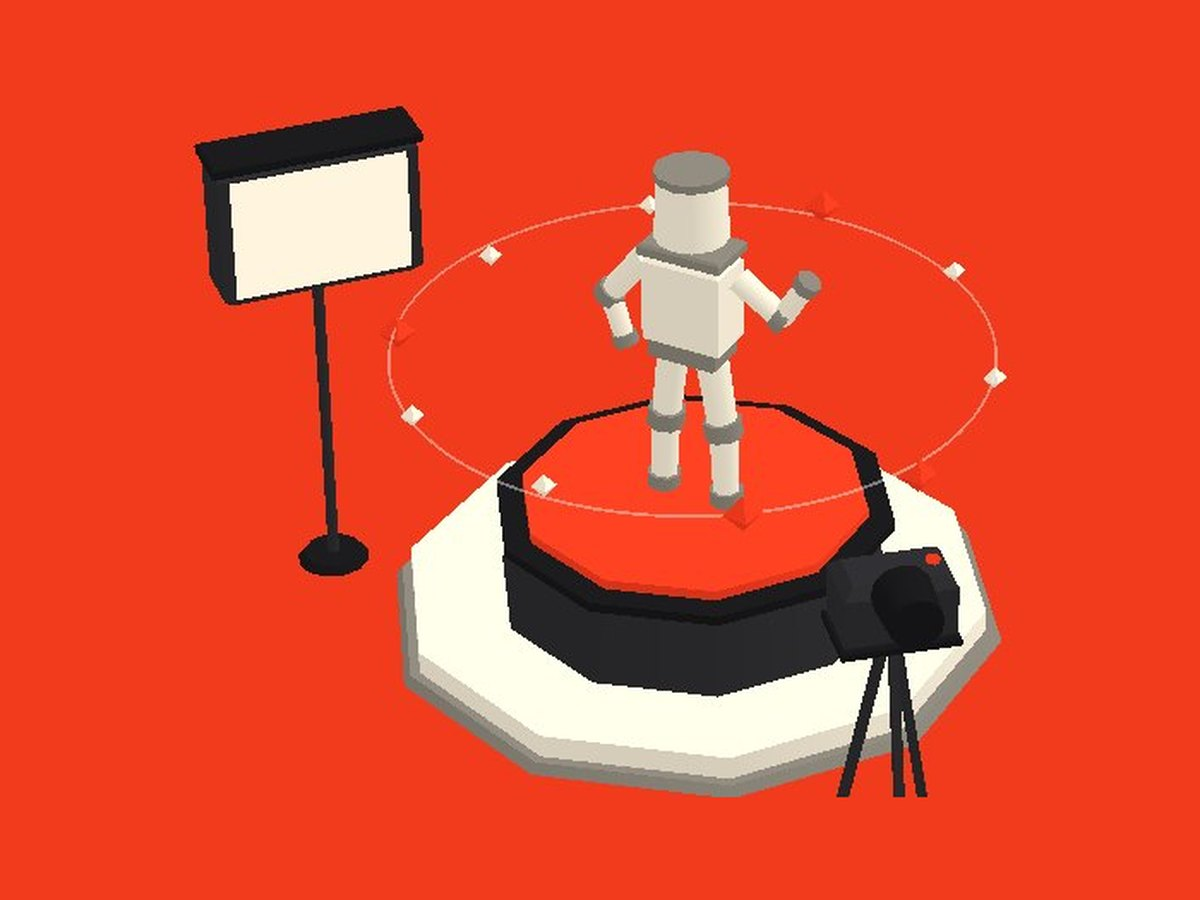
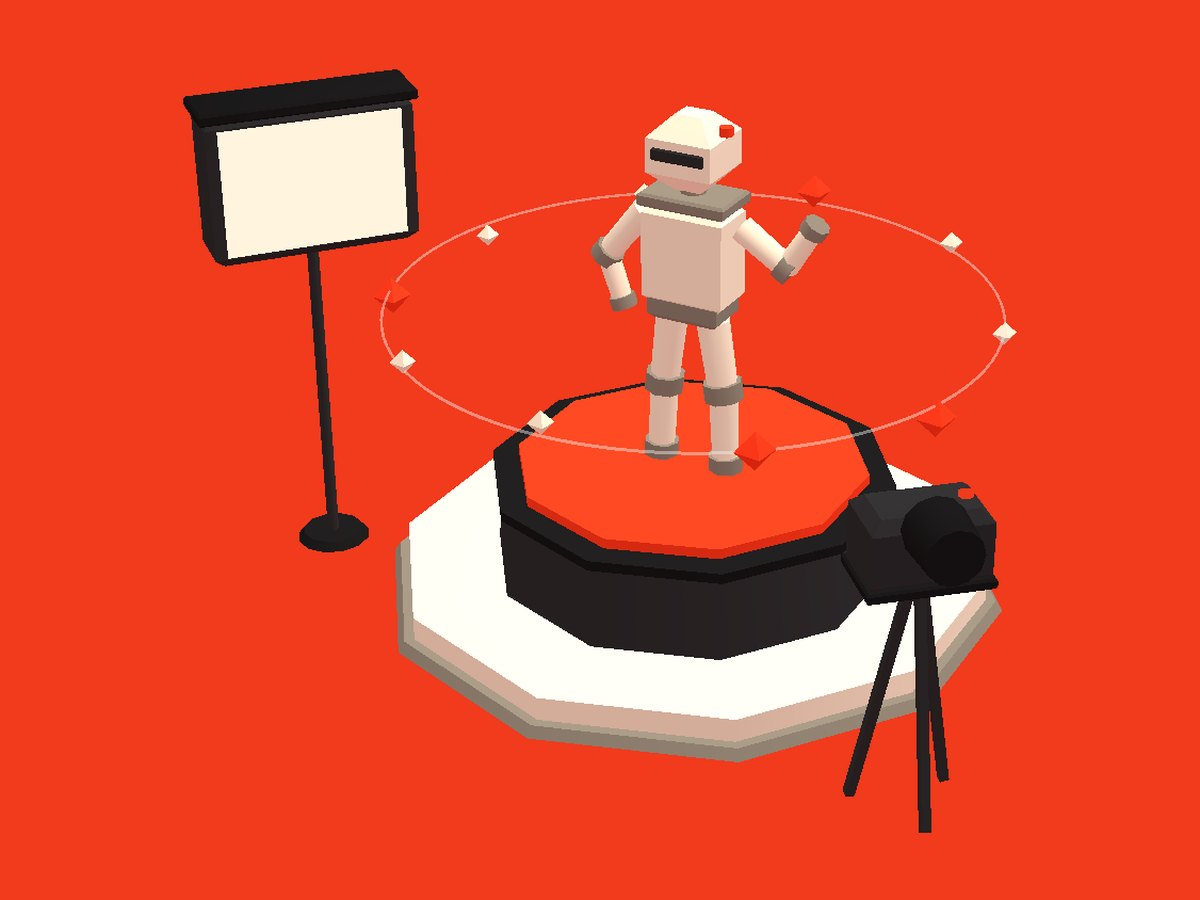
Simpler rounded gates, furnished rooms, gallery lighting
- Gates are now one rounded arch per doorway with an accent line and a
  numbered badge, coloured by the room it opens on; no swinging leaves
- Every room is dressed along its side walls: plants in the far corners,
  skirting, shelves of books, framed posters, lamps; engineer rooms get a
  code console, a neon sign, a cable tray and a lit green strip
- Dressing is merged per material so each room adds only a few draw calls
- A gallery spot follows the room you are in and casts soft shadows; the
  hemisphere light takes each half's colour (red bounce, green tint)
- Soft contact shadow under every piece; mannequin gets a visor head

Claude-Session: https://claude.ai/code/session_01DM9MDgNKx7H6ECd662b5ve

Changed region(s): [[0.1542, 0.0622, 0.8633, 0.9333]]

diff --git a/app.js b/app.js
@@ -787,7 +787,7 @@ function buildBlender(i){
     m.quaternion.setFromUnitVectors(V3(0, 1, 0), Bv.clone().sub(A).normalize()); m.castShadow = true; fig.add(m);
     const j = new THREE.Mesh(new THREE.CylinderGeometry(r * 1.3, r * 1.3, r * 1.2, 8), T); j.position.copy(Bv); j.quaternion.copy(m.quaternion); fig.add(j); };
   K(fig, .5, .62, .3, W, 0, 1.0, 0); K(fig, .54, .08, .34, T, 0, 1.6, 0); K(fig, .44, .16, .28, T, 0, .92, 0);
-  O8(fig, .2, .22, .4, W, 0, 1.72, 0); O8(fig, .22, .22, .05, T, 0, 2.1, 0); O8(fig, .07, .08, .1, T, 0, 1.64, 0);
+  K(fig, .4, .44, .38, W, 0, 1.7, 0, { r: .12 }); K(fig, .32, .11, .06, fm('ink'), 0, 1.88, .17, { r: .03 }); O8(fig, .04, .04, .05, fm('red'), .2, 2.04, 0); O8(fig, .07, .08, .1, T, 0, 1.64, 0);
   limb(-.3, 1.52, -.55, 1.2, .07); limb(-.55, 1.2, -.45, .92, .06); limb(.3, 1.52, .58, 1.34, .07); limb(.58, 1.34, .74, 1.6, .06);
   limb(-.13, .92, -.18, .48, .09); limb(-.18, .48, -.2, .04, .08); limb(.13, .92, .2, .5, .09); limb(.2, .5, .22, .04, .08);
   /* a softbox and a camera on a tripod, both on the same base */
@@ -1105,63 +1105,194 @@ function buildContact(i){
   return g;
 }
 
-/* ══ gates: a built doorway into every room, named for the room it opens on,
-   with two leaves that swing open as you walk up to them ══ */
-const GATES = [];
-function gateSign(i){
-  const st = STATIONS[i], side = ROOMS[i].side, W = 1100, H = 280, [c, g] = makeCanvas(W, H);
-  const num = String(i + 1).padStart(2, '0'), word = WALLWORD[i];
-  if (side === 'eng'){
-    g.fillStyle = '#070B08'; g.fillRect(0, 0, W, H);
-    g.strokeStyle = 'rgba(59,240,122,.45)'; g.lineWidth = 6; g.strokeRect(10, 10, W - 20, H - 20);
-    g.fillStyle = '#3BF07A'; g.font = '800 104px "JetBrains Mono", ui-monospace, monospace'; g.textBaseline = 'middle';
-    g.shadowColor = 'rgba(59,240,122,.6)'; g.shadowBlur = 18;
-    g.fillText('> cd ./' + word.toLowerCase().replace(/\s+/g, '_').slice(0, 9) + '_', 44, H / 2 + 4);
-    g.shadowBlur = 0; g.font = '700 30px "JetBrains Mono", ui-monospace, monospace'; g.fillStyle = 'rgba(59,240,122,.7)'; g.textAlign = 'right'; g.fillText('[' + num + '/09]', W - 40, 46);
-  } else {
-    const bg = side === 'cre' ? HEX.red : HEX.paper, ink = side === 'cre' ? HEX.black : HEX.red;
-    g.fillStyle = bg; g.fillRect(0, 0, W, H);
-    g.fillStyle = ink; g.textBaseline = 'alphabetic';
-    const t = num + ' ' + word.toUpperCase() + ' →'; fitText(g, t, W - 80, 220); g.fillText(t, 40, H / 2 + 72);
-  }
+/* ══ gates: one rounded portal per doorway, in the colour of the room it opens on,
+   with a thin accent line inside and the room's number on a round badge ══ */
+/* an arch as one outline: up the outside, over, down, then back up the inside */
+function portalGeo(ow, oh, or, iw, ih, ir, depth){
+  const s = new THREE.Shape();
+  s.moveTo(-ow / 2, 0); s.lineTo(-ow / 2, oh - or); s.quadraticCurveTo(-ow / 2, oh, -ow / 2 + or, oh);
+  s.lineTo(ow / 2 - or, oh); s.quadraticCurveTo(ow / 2, oh, ow / 2, oh - or); s.lineTo(ow / 2, 0);
+  s.lineTo(iw / 2, 0); s.lineTo(iw / 2, ih - ir); s.quadraticCurveTo(iw / 2, ih, iw / 2 - ir, ih);
+  s.lineTo(-iw / 2 + ir, ih); s.quadraticCurveTo(-iw / 2, ih, -iw / 2, ih - ir); s.lineTo(-iw / 2, 0); s.lineTo(-ow / 2, 0);
+  const g = new THREE.ExtrudeGeometry(s, { depth, bevelEnabled: true, bevelThickness: .04, bevelSize: .03, bevelSegments: LOW ? 1 : 3, curveSegments: LOW ? 6 : 14 });
+  g.translate(0, 0, -depth / 2); g.computeVertexNormals(); return g;
+}
+function badgeTex(num, bg, fg){
+  const [c, g] = makeCanvas(256, 256);
+  g.fillStyle = bg; g.beginPath(); g.arc(128, 128, 126, 0, Math.PI * 2); g.fill();
+  g.fillStyle = fg; g.textAlign = 'center'; g.textBaseline = 'alphabetic'; posterFont(g, 150); g.fillText(num, 128, 182);
   return texFrom(c);
 }
 function buildGates(){
+  const T = .34, D = WT + .36;
+  const frameG = portalGeo(DW + 2 * T, DH + T, 1.1, DW, DH, .78, D);
+  const lineG = portalGeo(DW + .04, DH + .02, .8, DW - .12, DH - .06, .72, D + .12);
+  const STY = { eng: ['ink', FAM.green, '#3BF07A', '#0B110D'], cre: ['cream', C.black, HEX.black, HEX.paper], both: ['red', C.black, HEX.black, HEX.paper] };
   DOORS.forEach((d, i) => {
-    const rm = ROOMS[i], side = rm.side, a = rm.nin.clone().negate();
-    const fam = side === 'eng' ? 'ink' : side === 'cre' ? 'red' : 'cream', trim = side === 'eng' ? 'green' : side === 'cre' ? 'ink' : 'red';
+    const rm = ROOMS[i], st = STY[rm.side], a = rm.nin.clone().negate();
     const g = new THREE.Group(); g.position.set(d.x, 0, d.z); g.rotation.y = Math.atan2(a.x, a.z); world.add(g);
-    [-1, 1].forEach(sx => {
-      const x = sx * (DW / 2 + .23);
-      K(g, .46, DH + .06, .72, fm(fam), x, 0, 0);
-      K(g, .6, .18, .86, fm(fam, 't'), x, 0, 0);
-      K(g, .6, .16, .86, fm(fam, 't'), x, DH - .1, 0);
-      K(g, .48, .07, .74, fm(trim), x, 1.15, 0);
-      K(g, .48, .07, .74, fm(trim), x, 2.9, 0);
-    });
-    K(g, DW + .92, .36, .74, fm(fam), 0, DH + .02, 0);
-    K(g, DW + 1.2, .14, .9, fm(fam, 't'), 0, DH + .38, 0);
-    K(g, DW - .1, .03, .74, fm(trim, 't'), 0, 0, 0, { r: .01 });
-    plane(g, 2.6, .66, decal(gateSign(i)), 0, DH + .95, .4);
-    K(g, 2.72, .78, .06, fm(fam, 't'), 0, DH + .56, .36);
-    [-1, 1].forEach(s => {
-      const hinge = new THREE.Group(); hinge.position.set(s * DW / 2, 0, -.05); g.add(hinge);
-      K(hinge, DW / 2 - .05, DH - .12, .08, fm(fam, 'f'), -s * DW / 4, .04, 0);
-      K(hinge, DW / 2 - .35, .05, .1, fm(fam, 't'), -s * DW / 4, 1.4, 0);
-      K(hinge, DW / 2 - .35, .05, .1, fm(fam, 't'), -s * DW / 4, 3.1, 0);
-      O8(hinge, .05, .05, .12, fm(trim), -s * (DW / 2 - .25), 2.0, .07).rotation.x = Math.PI / 2;
-      GATES.push({ hinge, s, x: d.x, z: d.z, open: 0 });
+    mesh(g, frameG, fm(st[0]), 0, 0, 0);
+    mesh(g, lineG, flat(st[1]), 0, 0, 0, { noShadow: true });
+    const tex = badgeTex(String(i + 1).padStart(2, '0'), st[2], st[3]);
+    [1, -1].forEach(s => {
+      const disc = O8(g, .36, .36, .06, fm(st[0], 't'), 0, 0, 0, { seg: 24 });
+      disc.rotation.x = Math.PI / 2; disc.position.set(0, DH + T + .62, s * (D / 2 + .05));
+      const face = new THREE.Mesh(new THREE.CircleGeometry(.33, 32), decal(tex, { transparent: true }));
+      face.position.set(0, DH + T + .62, s * (D / 2 + .085)); if (s < 0) face.rotation.y = Math.PI; g.add(face);
     });
   });
-  anim.push((t, dt) => {
-    const k = 1 - Math.exp(-dt * 6);
-    GATES.forEach(gt => {
-      const dist = Math.hypot(camera.position.x - gt.x, camera.position.z - gt.z);
-      const want = REDUCED ? 1 : 1 - smooth(4.5, 10, dist);
-      gt.open += (want - gt.open) * k;
-      gt.hinge.rotation.y = -gt.s * gt.open * 1.5;
+}
+
+/* ══ dressing: each room furnished along its side walls, never in front of its piece ══ */
+function seeded(n){ let x = n * 9301 + 49297; return () => { x = (x * 9301 + 49297) % 233280; return x / 233280; }; }
+function codeTex(seed){
+  const [c, g] = makeCanvas(512, 320), r = seeded(seed);
+  g.fillStyle = '#070B08'; g.fillRect(0, 0, 512, 320);
+  for (let k = 0; k < 15; k++){
+    const y = 18 + k * 19.5; g.fillStyle = 'rgba(59,240,122,.28)'; g.fillRect(14, y, 14, 9);
+    let x = 40 + Math.floor(r() * 4) * 16;
+    for (let w = 0; w < 1 + r() * 4 && x < 480; w++){
+      const len = 20 + r() * 90; const v = r();
+      g.fillStyle = v > .8 ? '#F23A1D' : v > .45 ? '#3BF07A' : v > .2 ? '#C9F5D6' : 'rgba(59,240,122,.45)';
+      g.fillRect(x, y, Math.min(len, 490 - x), 9); x += len + 10;
+    }
+  }
+  g.fillStyle = '#3BF07A'; g.fillRect(40, 18 + 15 * 19.5, 10, 12);
+  return texFrom(c);
+}
+function plant(par, x, z, kind, pot, s){
+  const p = new THREE.Group(); p.position.set(x, 0, z); p.scale.setScalar(s || 1); par.add(p);
+  O8(p, .3, .22, .5, fm(pot), 0, 0, 0); O8(p, .33, .33, .07, fm(pot, 't'), 0, .48, 0); O8(p, .27, .27, .02, fm('wood', 't'), 0, .5, 0);
+  if (kind === 0){
+    [[0, .9, 0, 0], [.1, 1.2, .25, 1], [-.1, 1.05, -.22, 2], [.05, .8, -.4, 3], [-.06, 1.3, .1, 4], [.13, .95, .5, 5]].forEach(b => {
+      K(p, .12, b[1], .05, fm(b[3] % 3 === 1 ? 'grass' : 'leaf', b[3] % 2 ? 'f' : 'm'), b[0], .5, b[0] * .5, { rz: b[2] * .5, ry: b[3] * .9, r: .02 });
     });
+  } else if (kind === 1){
+    [[0, 1.02, 0, .42, 'm'], [.22, .86, .12, .3, 'f'], [-.2, .9, -.1, .32, 't'], [0, 1.36, 0, .26, 'f']].forEach(q => {
+      const m = mesh(p, new THREE.IcosahedronGeometry(q[3], 0), fm('leaf', q[4]), q[0], q[1], q[2]); m.rotation.set(q[0] * 3, q[1], q[2]);
+    });
+  } else {
+    O8(p, .05, .07, 1.0, fm('wood', 't'), 0, .5, 0);
+    [[1.55, .5, .7, 'm'], [1.95, .4, .56, 'f'], [2.3, .28, .4, 'm']].forEach(c => { const m = new THREE.Mesh(new THREE.ConeGeometry(c[1], c[2], 8), fm('leaf', c[3])); m.position.y = c[0]; m.castShadow = true; p.add(m); });
+  }
+  return p;
+}
+function shelf(par, x, z, ry, side, seed){
+  const g = new THREE.Group(); g.position.set(x, 0, z); g.rotation.y = ry; par.add(g);
+  const fr = side === 'eng' ? 'ink' : side === 'cre' ? 'cream' : 'ink', r = seeded(seed);
+  const PAL = side === 'eng' ? [['ink', 'f'], ['green', 't'], ['steel', 'm'], ['ink', 't'], ['green', 'm']]
+    : side === 'cre' ? [['ink', 'm'], ['wood', 'm'], ['sand', 'm'], ['steel', 'm'], ['cream', 't']] : [['red', 'm'], ['ink', 'm'], ['cream', 't'], ['steel', 'm'], ['sand', 'm']];
+  K(g, 1.9, 2.5, .05, fm(fr, 't'), 0, 0, .02);
+  [-.93, .93].forEach(sx => K(g, .08, 2.6, .46, fm(fr), sx, 0, .23));
+  [0, .62, 1.24, 1.86, 2.5].forEach(y => K(g, 1.94, .07, .48, fm(fr), 0, y, .24));
+  [.07, .69, 1.31, 1.93].forEach((y, row) => {
+    let bx = -.84;
+    while (bx < .8){
+      if (r() < .12 && bx < .5){ O8(g, .1, .08, .26, fm(side === 'eng' ? 'green' : 'red', 't'), bx + .12, y, .24); bx += .3; continue; }
+      const w = .06 + r() * .07, h = .3 + r() * .2, c = PAL[Math.floor(r() * PAL.length)];
+      K(g, w, h, .3 + r() * .06, fm(c[0], c[1]), bx + w / 2, y, .24, { r: .01, rz: r() < .08 ? .2 : 0 }); bx += w + .012;
+      if (r() < .06) bx += .2;
+    }
   });
+  return g;
+}
+function framed(par, x, y, z, ry, tex, w, h, fam){
+  const g = new THREE.Group(); g.position.set(x, y, z); g.rotation.y = ry; par.add(g);
+  K(g, w + .14, h + .14, .07, fm(fam), 0, -(h + .14) / 2, .035, { r: .025 });
+  plane(g, w, h, decal(tex), 0, 0, .075);
+  return g;
+}
+function floorLamp(par, x, z, shade){
+  const l = new THREE.Group(); l.position.set(x, 0, z); par.add(l);
+  O8(l, .26, .3, .06, fm('ink', 't'), 0, 0, 0); O8(l, .03, .03, 1.75, fm('ink'), 0, .06, 0);
+  O8(l, .2, .34, .4, fm(shade), 0, 1.72, 0);
+  const glow = new THREE.Mesh(new THREE.CircleGeometry(.3, 16), flat(FAM.lamp)); glow.rotation.x = Math.PI / 2; glow.position.y = 1.73; l.add(glow);
+}
+function deskConsole(par, x, z, ry, seed){
+  const g = new THREE.Group(); g.position.set(x, 0, z); g.rotation.y = ry; par.add(g);
+  K(g, 2.2, .76, .7, fm('ink'), 0, 0, .35); K(g, 2.26, .06, .76, fm('ink', 't'), 0, .76, .35);
+  K(g, 2.2, .03, .02, flat(FAM.green), 0, .5, .71, { noShadow: true });
+  [-.52, .52].forEach((mx, k) => {
+    O8(g, .14, .16, .03, fm('ink', 't'), mx, .82, .25); K(g, .06, .3, .06, fm('ink'), mx, .82, .2);
+    K(g, .98, .62, .08, fm('ink', 't'), mx, 1.02, .2, { ry: k ? -.12 : .12 });
+    plane(g, .9, .54, decal(codeTex(seed + k)), mx, 1.33, .245, k ? -.12 : .12);
+  });
+  K(g, .7, .03, .22, fm('steel'), 0, .82, .52);
+  K(g, .34, .6, .6, fm('ink', 'f'), 1.4, 0, .35); [0, 1, 2].forEach(k => K(g, .2, .03, .02, flat(k ? 0xC9F5D6 : FAM.green), 1.4, .38 + k * .07, .66, { noShadow: true }));
+  return g;
+}
+function neonSign(par, x, y, z, ry, text, col, w){
+  const [c, g] = makeCanvas(512, 256);
+  g.textAlign = 'center'; g.textBaseline = 'middle'; g.font = '800 150px "JetBrains Mono", ui-monospace, monospace';
+  g.shadowColor = col; g.shadowBlur = 26; g.fillStyle = col; g.fillText(text, 256, 132); g.shadowBlur = 0; g.fillStyle = '#ffffff'; g.globalAlpha = .55; g.fillText(text, 256, 132);
+  const m = plane(par, w, w / 2, decal(texFrom(c), { transparent: true, blending: THREE.AdditiveBlending, depthWrite: false }), x, y, z, ry);
+  return m;
+}
+/* static dressing is merged per material, so a furnished room costs a handful of draw calls */
+const _inv = new THREE.Matrix4(), _rel = new THREE.Matrix4();
+function mergeStatic(D){
+  D.updateMatrixWorld(true); _inv.copy(D.matrixWorld).invert();
+  const groups = new Map(), drop = [];
+  D.traverse(o => {
+    if (!o.isMesh || o.material.map || o.material.transparent) return;
+    _rel.multiplyMatrices(_inv, o.matrixWorld);
+    let g = o.geometry.clone().applyMatrix4(_rel); if (g.index) g = g.toNonIndexed();
+    const k = o.material.uuid; if (!groups.has(k)) groups.set(k, { m: o.material, pos: [], nor: [] });
+    const e = groups.get(k); e.pos.push(g.attributes.position.array); e.nor.push(g.attributes.normal.array); drop.push(o);
+  });
+  drop.forEach(o => o.parent.remove(o));
+  const cat = list => { const n = list.reduce((a, b) => a + b.length, 0), out = new Float32Array(n); let off = 0; list.forEach(a => { out.set(a, off); off += a.length; }); return out; };
+  groups.forEach(e => {
+    const g = new THREE.BufferGeometry();
+    g.setAttribute('position', new THREE.BufferAttribute(cat(e.pos), 3)); g.setAttribute('normal', new THREE.BufferAttribute(cat(e.nor), 3));
+    const m = new THREE.Mesh(g, e.m); m.castShadow = m.receiveShadow = true; D.add(m);
+  });
+}
+const SKIRT = { eng: ['ink', 't'], cre: ['ink', 'm'], both: ['red', 'm'] };
+function dressRoom(i){
+  const rm = ROOMS[i], side = rm.side, hw = rm.w / 2 - WT / 2, dep = CELL - WT;
+  const D = new THREE.Group(); D.position.copy(rm.f).addScaledVector(rm.n, WT / 2); D.rotation.y = rm.ry; world.add(D);
+  D.updateMatrixWorld(true);
+  const dx = D.worldToLocal(V3(rm.door.x, 0, rm.door.z)).x;
+  /* a skirting band all round, and a lit strip above it on the engineer side */
+  const sk = fm(SKIRT[side][0], SKIRT[side][1]);
+  K(D, 2 * hw, .2, .06, sk, 0, 0, .03, { r: .01 });
+  [-1, 1].forEach(s => K(D, .06, .2, dep, sk, s * (hw - .03), 0, dep / 2, { r: .01 }));
+  [[-hw, dx - DW / 2 - .4], [dx + DW / 2 + .4, hw]].forEach(sp => { if (sp[1] - sp[0] > .1) K(D, sp[1] - sp[0], .2, .06, sk, (sp[0] + sp[1]) / 2, 0, dep - .03, { r: .01 }); });
+  if (side === 'eng'){
+    const led = flat(FAM.green, { transparent: true, opacity: .85 });
+    plane(D, 2 * hw, .03, led, 0, .24, .062);
+    [-1, 1].forEach(s => plane(D, dep, .03, led, s * (hw - .062), .24, dep / 2, -s * Math.PI / 2));
+  }
+  const L = -hw, Rt = hw, pl = side === 'eng' ? 'ink' : side === 'cre' ? 'cream' : 'ink';
+  /* the two far corners always hold something green */
+  plant(D, L + .6, .6, i % 3, pl, 1.05);
+  plant(D, Rt - .6, .6, (i + 1) % 3, pl, .92);
+  if (side === 'eng'){
+    deskConsole(D, L + .02, 3.6, Math.PI / 2, i * 7);
+    framed(D, Rt - .02, 3.9, 3.6, -Math.PI / 2, codeTex(i * 7 + 3), 2.4, 1.5, 'ink');
+    neonSign(D, Rt - .04, 2.25, 3.6, -Math.PI / 2, ['</>', '{ }', '01'][i % 3] || '</>', '#3BF07A', 1.5);
+    plant(D, Rt - .6, 5.6, 1, 'ink', .8);
+    /* cable tray under the ceiling */
+    K(D, .34, .1, dep - 1, fm('ink', 't'), L + .5, RH - .9, dep / 2);
+  } else if (side === 'cre'){
+    shelf(D, L + .02, 3.4, Math.PI / 2, side, i * 11);
+    const keys = { 1: ['rig', 'reel'], 2: ['house', 'build'], 5: ['tools', 'cv'] }[i] || ['wall', 'hex'];
+    keys.forEach((k, n) => framed(D, Rt - .02, 3.55 + n * .1, 2.6 + n * 1.9, -Math.PI / 2, texFrom(posterCanvas(k, 260)), 1.15, 1.15 * PHI, 'ink'));
+    floorLamp(D, Rt - .6, 5.0, 'cream');
+  } else {
+    if (i === 8){
+      framed(D, L + .02, 4.2, 3.4, Math.PI / 2, texFrom(posterCanvas('build', 260)), 1.3, 1.3 * PHI, 'ink');
+      framed(D, Rt - .02, 4.2, 3.4, -Math.PI / 2, texFrom(posterCanvas('channel', 260)), 1.3, 1.3 * PHI, 'ink');
+      plant(D, L + 5.6, .6, 2, 'ink', 1.0); plant(D, Rt - 5.6, .6, 0, 'ink', 1.0);
+    } else {
+      shelf(D, L + .02, 3.4, Math.PI / 2, side, i * 13);
+      framed(D, Rt - .02, 3.8, 3.4, -Math.PI / 2, texFrom(posterCanvas(i === 7 ? 'arcade' : 'numbers', 260)), 1.3, 1.3 * PHI, 'ink');
+      floorLamp(D, Rt - .6, 5.2, 'red');
+    }
+  }
+  mergeStatic(D);
+  return D;
 }
 
 /* ══ atmosphere: a gallery beam over every piece, and the air of each half ══ */
@@ -1181,6 +1312,7 @@ const AIR = [], BEAMS = [];
 function buildAtmosphere(){
   const beamTex = gradTex([[0, 'rgba(255,255,255,0)'], [.55, 'rgba(255,255,255,.35)'], [1, 'rgba(255,255,255,.9)']], 4, 256);
   const poolTex = gradTex([[0, 'rgba(255,255,255,.9)'], [.45, 'rgba(255,255,255,.35)'], [1, 'rgba(255,255,255,0)']], 256, 256, true);
+  const aoTex = gradTex([[0, 'rgba(0,0,0,.55)'], [.55, 'rgba(0,0,0,.22)'], [1, 'rgba(0,0,0,0)']], 256, 256, true);
   const TINT = { eng: 0x9DFFC0, cre: 0xFFE2C2, both: 0xFFFFFF };
   PIECE.forEach((g, i) => {
     const p = new THREE.Vector3(); g.getWorldPosition(p); const tint = lin(TINT[ROOMS[i].side]);
@@ -1189,6 +1321,10 @@ function buildAtmosphere(){
     beam.position.set(p.x, h / 2, p.z); world.add(beam); BEAMS.push(beam);
     const pool = new THREE.Mesh(new THREE.PlaneGeometry(5.2, 5.2), new THREE.MeshBasicMaterial({ map: poolTex, color: tint, transparent: true, opacity: .38, depthWrite: false, blending: THREE.AdditiveBlending, polygonOffset: true, polygonOffsetFactor: -2, polygonOffsetUnits: -2 }));
     pool.rotation.x = -Math.PI / 2; pool.position.set(p.x, .012, p.z); world.add(pool);
+    /* a soft contact shadow, so every piece sits down on the floor */
+    const bb = new THREE.Box3().setFromObject(g), sz = new THREE.Vector3(); bb.getSize(sz);
+    const ao = new THREE.Mesh(new THREE.PlaneGeometry(1, 1), new THREE.MeshBasicMaterial({ map: aoTex, transparent: true, opacity: ROOMS[i].side === 'eng' ? .7 : .38, depthWrite: false, polygonOffset: true, polygonOffsetFactor: -3, polygonOffsetUnits: -3 }));
+    ao.rotation.x = -Math.PI / 2; ao.scale.set(Math.min(sz.x, 9) * 1.25, Math.min(sz.z, 6) * 1.35, 1); ao.position.set((bb.min.x + bb.max.x) / 2, .014, (bb.min.z + bb.max.z) / 2); world.add(ao);
     const lamp = new THREE.Mesh(new THREE.CylinderGeometry(.16, .26, .22, 12), fm('ink').clone()); lamp.position.set(p.x, RH - .11, p.z); world.add(lamp);
     const lens = new THREE.Mesh(new THREE.CircleGeometry(.2, 16), flat(0xFFFFFF)); lens.rotation.x = Math.PI / 2; lens.position.set(p.x, RH - .23, p.z); world.add(lens);
     ceilMats.push(lamp.material);
@@ -1231,9 +1367,12 @@ function buildHits(){
   });
 }
 
+let hemi = null, spot = null;
+const HEMI = { eng: [0xD6FFE4, 0x0B110D, .42], cre: [0xFFEDE4, 0xF23A1D, .46], both: [0xFFFFFF, 0xCFCBC4, .44], hall: [0xFFFFFF, 0xCFCBC4, .44] };
+const SPOT_TINT = { eng: 0xCFFFE0, cre: 0xFFE9D2, both: 0xFFF4E6, hall: 0xFFF4E6 };
 function buildLights(){
-  scene.add(new THREE.HemisphereLight(0xffffff, 0xCFCBC4, .5));
-  keyLight = new THREE.DirectionalLight(0xFFFFFF, .55);
+  hemi = new THREE.HemisphereLight(0xffffff, 0xCFCBC4, .44); scene.add(hemi);
+  keyLight = new THREE.DirectionalLight(0xFFF8EE, .42);
   keyLight.position.set(5, 14, 7); scene.add(keyLight.target);
   if (!LOW){
     /* the shadow box follows the camera, so it stays sharp and never shimmers */
@@ -1242,6 +1381,23 @@ function buildLights(){
     keyLight.shadow.bias = -.0004; keyLight.shadow.normalBias = .04; keyLight.shadow.radius = 3;
   }
   scene.add(keyLight);
+  /* a gallery spot over the room you are in: it pools light on the piece and lets the corners fall away */
+  spot = new THREE.SpotLight(0xFFF4E6, LOW ? .7 : .85, 0, .62, .75, 1);
+  spot.position.set(0, RH - .2, -HALL_D / 2); spot.target.position.set(0, 0, -HALL_D / 2); scene.add(spot.target);
+  if (!LOW){ spot.castShadow = true; spot.shadow.mapSize.set(1024, 1024); spot.shadow.bias = -.0006; spot.shadow.normalBias = .03; spot.shadow.radius = 4; spot.shadow.camera.near = 1; spot.shadow.camera.far = RH + 2; }
+  scene.add(spot);
+}
+const _sp = new THREE.Vector3(), _hc = new THREE.Color(), _gc = new THREE.Color();
+function steerLights(here, dt){
+  if (!spot) return;
+  const side = here >= 0 ? ROOMS[here].side : 'hall';
+  if (here >= 0) PIECE[here].getWorldPosition(_sp); else _sp.set(0, 0, -HALL_D / 2);
+  const k = 1 - Math.exp(-(dt || .016) * 3.2);
+  spot.target.position.lerp(_sp, k); spot.position.set(spot.target.position.x, RH - .25, spot.target.position.z + .6);
+  spot.color.lerp(_hc.set(SPOT_TINT[side]).convertSRGBToLinear(), k);
+  const H = HEMI[side];
+  hemi.color.lerp(_hc.set(H[0]).convertSRGBToLinear(), k); hemi.groundColor.lerp(_gc.set(H[1]).convertSRGBToLinear(), k);
+  hemi.intensity += (H[2] - hemi.intensity) * k;
 }
 
 /* ══ the lanes in 3D ════════════════════════════════════════ */
@@ -1729,6 +1885,7 @@ function frame(now){
   pNow = REDUCED ? pTarget : pNow + (pTarget - pNow) * (1 - Math.exp(-dt * 10));
   if (Math.abs(pTarget - pNow) < .01) pNow = pTarget;
   direct(pNow, clockT);
+  steerLights(hereOf(pNow), dt);
   anim.forEach(f => f(clockT, dt));
   moveCursor(dt);
   if (pop && PIECE[pop.i]){
@@ -1756,7 +1913,7 @@ history.scrollRestoration = 'manual';
 loadAll().then(() => {
   buildLights(); buildShell();
   [buildArthis, buildBlender, buildAkverse, buildHexa, buildAI, buildBoard, buildNumbers, buildArcade, buildContact].forEach((f, i) => { PIECE[i] = f(i); });
-  buildHits(); buildGates(); buildAtmosphere(); buildTrack();
+  buildHits(); buildGates(); ROOMS.forEach((r, i) => dressRoom(i)); buildAtmosphere(); buildTrack();
   layout(); buildPoses();
   const want = location.hash.replace('#st-', '').replace('#', '');
   const s = STATIONS.find(x => x.id === want);
@@ -1769,17 +1926,18 @@ loadAll().then(() => {
     const i = +SHOT[1], keep = new Set(OWN[i]);
     world.children.forEach(c => { c.visible = keep.has(c); });
     backdrop.visible = false; lanes.forEach(L => { if (L.o) L.o.visible = false; });
-    if (WORDS[i]) WORDS[i].pl.visible = false;
+    if (WORDS[i]) WORDS[i].pl.parent.remove(WORDS[i].pl);
     body.classList.add('shot'); body.classList.remove('booting');
     const bb = new THREE.Box3(); OWN[i].forEach(g => bb.expandByObject(g));
     const c = new THREE.Vector3(), sz = new THREE.Vector3(); bb.getCenter(c); bb.getSize(sz);
     const q = new THREE.Quaternion(); PIECE[i].getWorldQuaternion(q);
     const dir = V3(.55, .55, 1).normalize().applyQuaternion(q), r = Math.max(sz.x, sz.y, sz.z);
     camera.fov = 24; camera.aspect = VW / VH; camera.updateProjectionMatrix();
-    camera.position.copy(c).addScaledVector(dir, r * 1.7); camera.lookAt(c);
+    camera.position.copy(c).addScaledVector(dir, r * 2.5); camera.lookAt(c);
     if (keyLight){ keyLight.target.position.copy(c); keyLight.position.copy(c).add(V3(5, 14, 7)); }
     const BG = { eng: 0x0B110D, cre: 0xF23A1D, both: 0xF3F1EC };
     renderer.setClearColor(BG[ROOMS[i].side], 1);
+    steerLights(i, 10);
     anim.forEach(f => f(3, .016));
     renderer.render(scene, camera);
     document.title = 'shot-ready';
